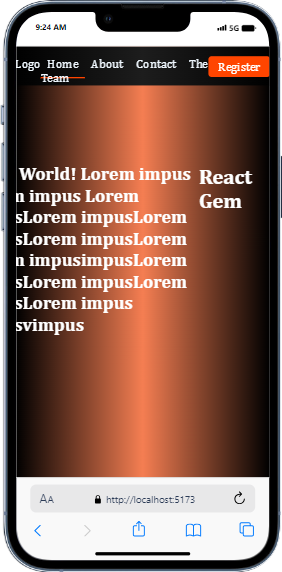
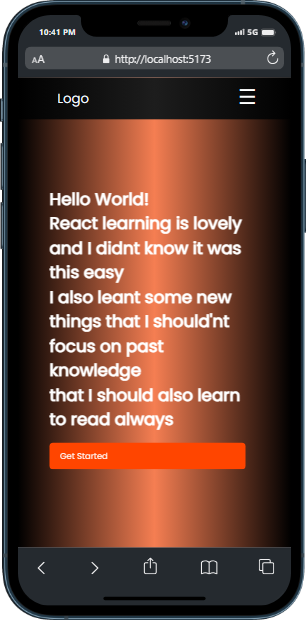
updated

diff --git a/src/App.css b/src/App.css
@@ -2,8 +2,108 @@ body{
   margin: 0;
    background-image: linear-gradient( to right,
   black, rgb(245, 126, 82), black);
-  font-family: Cambria, Cochin, Georgia, Times, 'Times New Roman', serif;
+  font-family: 'Poppins', sans-serif;
 }
+
+/* this is a css to change the scroll style*/
+::-webkit-scrollbar {
+  width: 10px;
+}
+::-webkit-scrollbar-track {
+  background: #f1f1f1;
+}
+::-webkit-scrollbar-thumb {
+  background: #888;
+}
+::-webkit-scrollbar-thumb:hover {
+  background: #555;
+}
+
+
+/* this is the styling for the responsive dropdown navbar*/
+.overlay {
+  height: 0%;
+  width: 50%;
+  position: fixed;
+  float: right;
+  right: 0;
+  z-index: 1;
+  top: 0;
+  background-color: white;
+  overflow-x: hidden;
+  transition: 0.5s;
+}
+@media screen and (max-width: 767px) {
+  .overlay{
+    width: 100%;
+  }
+}
+
+.overlay-content {
+  position: relative;
+  top: 20%;
+  width: 100%;
+  margin-top: 0px;
+  margin-left: 30px;
+}
+.text2{
+  margin-left: 30px;
+}
+
+.overlay a {
+  padding: 8px;
+  text-decoration: none;
+  font-size: 23px;
+  color: black;
+  display: block;
+  transition: 0.3s;
+  margin-top: 15px;
+}
+.active {
+  color: white;
+}
+.overlay a:hover,
+.overlay a:focus {
+  color: gray;
+}
+
+.overlay .closebtn {
+  position: absolute;
+  top: 70px;
+  right: 45px;
+  font-size: 60px;
+}
+
+@media screen and (max-height: 450px) {
+  .overlay {
+    overflow-y: auto;
+  }
+  .overlay a {
+    font-size: 20px;
+  }
+  .overlay .closebtn {
+    font-size: 40px;
+    top: 15px;
+    right: 35px;
+  }
+}
+spann {
+  font-size: 30px;
+  cursor: pointer;
+  color: white;
+  margin-top: 0px;
+  margin-left: 20px;
+  display: none;
+}
+@media screen and (max-width: 767px) {
+  spann {
+    display: block;
+    color: white;
+    margin-top: -10px;
+    margin-right: -60px;
+  }
+}
+
 .fx1{
   display: flex;
   justify-content: space-around;
@@ -19,6 +119,18 @@ a{
 .centernavbar{
   margin-top: 15px;
 }
+
+/* this code to hide the links on the center navbar and the get started button*/
+@media screen and (max-width: 767px) {
+  .centernavbar{
+    display: none;
+  }
+}
+@media screen and (max-width: 767px) {
+  .btn{
+    display: none;
+  }
+}
 .centernavbar a{
   font-size: 19px;
   padding: 10px;
@@ -30,6 +142,12 @@ a{
 .leftnavbar{
   margin-top: 15px;
   font-size: 19px;
+}
+/* i aldo added this code to shif the lodo to the left */
+@media screen and (max-width: 767px) {
+  .leftnavbar{
+    margin-left: -40px;
+  }
 }
 .rightnavbar{
   margin-top: 15px;
@@ -48,6 +166,18 @@ a{
   padding: 5px 20px;
 }
 
+/*mobile register button*/
+.btnn {
+  background-color: orangered;
+  color: white;
+  border-radius: 5px;
+  padding:10px 15px;
+  width: 250px
+}
+.btnn:hover{
+  padding: 10px 20px;
+}
+
 .section{
   color: white;
   display: flex;
@@ -55,13 +185,58 @@ a{
   margin-top: 100px;
 }
 
+/* Flex direction column is used to remove fex on mobile to make it responsive */
+@media screen and (max-width: 767px) {
+  .section{
+    flex-direction: column;
+    align-items: center;
+  }
+}
 .left-section {
   width: 500px;
   margin-left: -70px;
   font-size: 14px;
   margin-top: 40px;
 }
-
+@media screen and (max-width: 767px) {
+  .left-section{
+width: 300px;
+margin-left: 0px;
+margin-top: -20px;
+font-size: 12px;
+  }
+}
 .right-section{
   margin-top: -60px;
+}
+@media screen and (max-width: 767px) {
+  .right-section{
+margin-top: 20px;
+  }
+}
+
+#content{
+  animation: content;
+  animation-duration: 2s;
+  animation-fill-mode: forwards;
+  animation-delay: 1s;
+  position: relative;
+  opacity: 0;
+}
+#content1{
+  animation: content2;
+  animation-duration: 2s;
+  animation-fill-mode: forwards;
+  animation-delay: 2s;
+  position: relative;
+  opacity: 0;
+}
+
+@keyframes content{
+  0% {left: -1000px;}
+  100% {left: 0px; opacity: 1;}
+}
+@keyframes content2{
+  0% {right: -1000px;}
+  100% {right: 0px; opacity: 1;}
 }

diff --git a/src/sections/Navbar.jsx b/src/sections/Navbar.jsx
@@ -3,9 +3,31 @@ import '../App.css'
 import { Link } from "react-router-dom";
 
 function Navbar() {
+
+    function openNav() {
+      document.getElementById("myNav").style.height = "100%";
+    }
+    
+    function closeNav() {
+      document.getElementById("myNav").style.height = "0%";
+    }
+  
  
   return (
     <>
+
+<div id="myNav" className="overlay">
+          <a href="javascript:void(0)" className="closebtn" onClick={closeNav}>×</a>
+          <div className="overlay-content">
+          <Link to="/"><a className='active'>Home</a></Link>
+              <Link to="/about"><a>About</a></Link>
+              <Link to="/contact"><a>Contact</a></Link>
+              <Link to="/team"><a>The Team</a></Link>
+            <Link to="/"><div className="btnn">Get Started</div></Link>
+          </div>
+        </div>
+
+
           <div className='fx1'>
               <div className='leftnavbar'>      
               <a>Logo</a>   
@@ -18,6 +40,7 @@ function Navbar() {
               </div>
               <div className='rightnavbar'> 
                   <div className='btn'>Register</div>
+                  <spann onClick={openNav}>☰</spann>
               </div>
               </div>
     </>

diff --git a/src/sections/Home.jsx b/src/sections/Home.jsx
@@ -7,13 +7,15 @@ function Home() {
   return (
     <>
       <div className='section'>
-        <div className='left-section'>
-          <h1>Hello World!
-            Lorem impus Lorem impus Lorem impusLorem impusLorem impusLorem impusLorem
-            Lorem impusimpusLorem impusLorem impusLorem impusLorem impus impusvimpus
+        <div className='left-section' id="content">
+          <h1>Hello World!<br />
+           React learning is lovely and I didnt know it was this easy <br />
+           I also leant some new things that I should'nt focus on past knowledge <br />
+           that I should also learn to read always
         </h1>
+        <div className='btnn'>Get Started</div>
         </div>
-        <div className='right-section'>
+        <div className='right-section' id='content1'>
        <img src={img1} alt='phone-view' height='500px' />
         </div>
       </div>

diff --git a/index.html b/index.html
@@ -4,6 +4,7 @@
     <meta charset="UTF-8" />
     <link rel="icon" type="image/svg+xml" href="/vite.svg" />
     <meta name="viewport" content="width=device-width, initial-scale=1.0" />
+    <link href="https://fonts.googleapis.com/css2?family=Poppins&display=swap" rel="stylesheet" /> 
     <title>MyReact_Demo</title>
   </head>
   <body>
